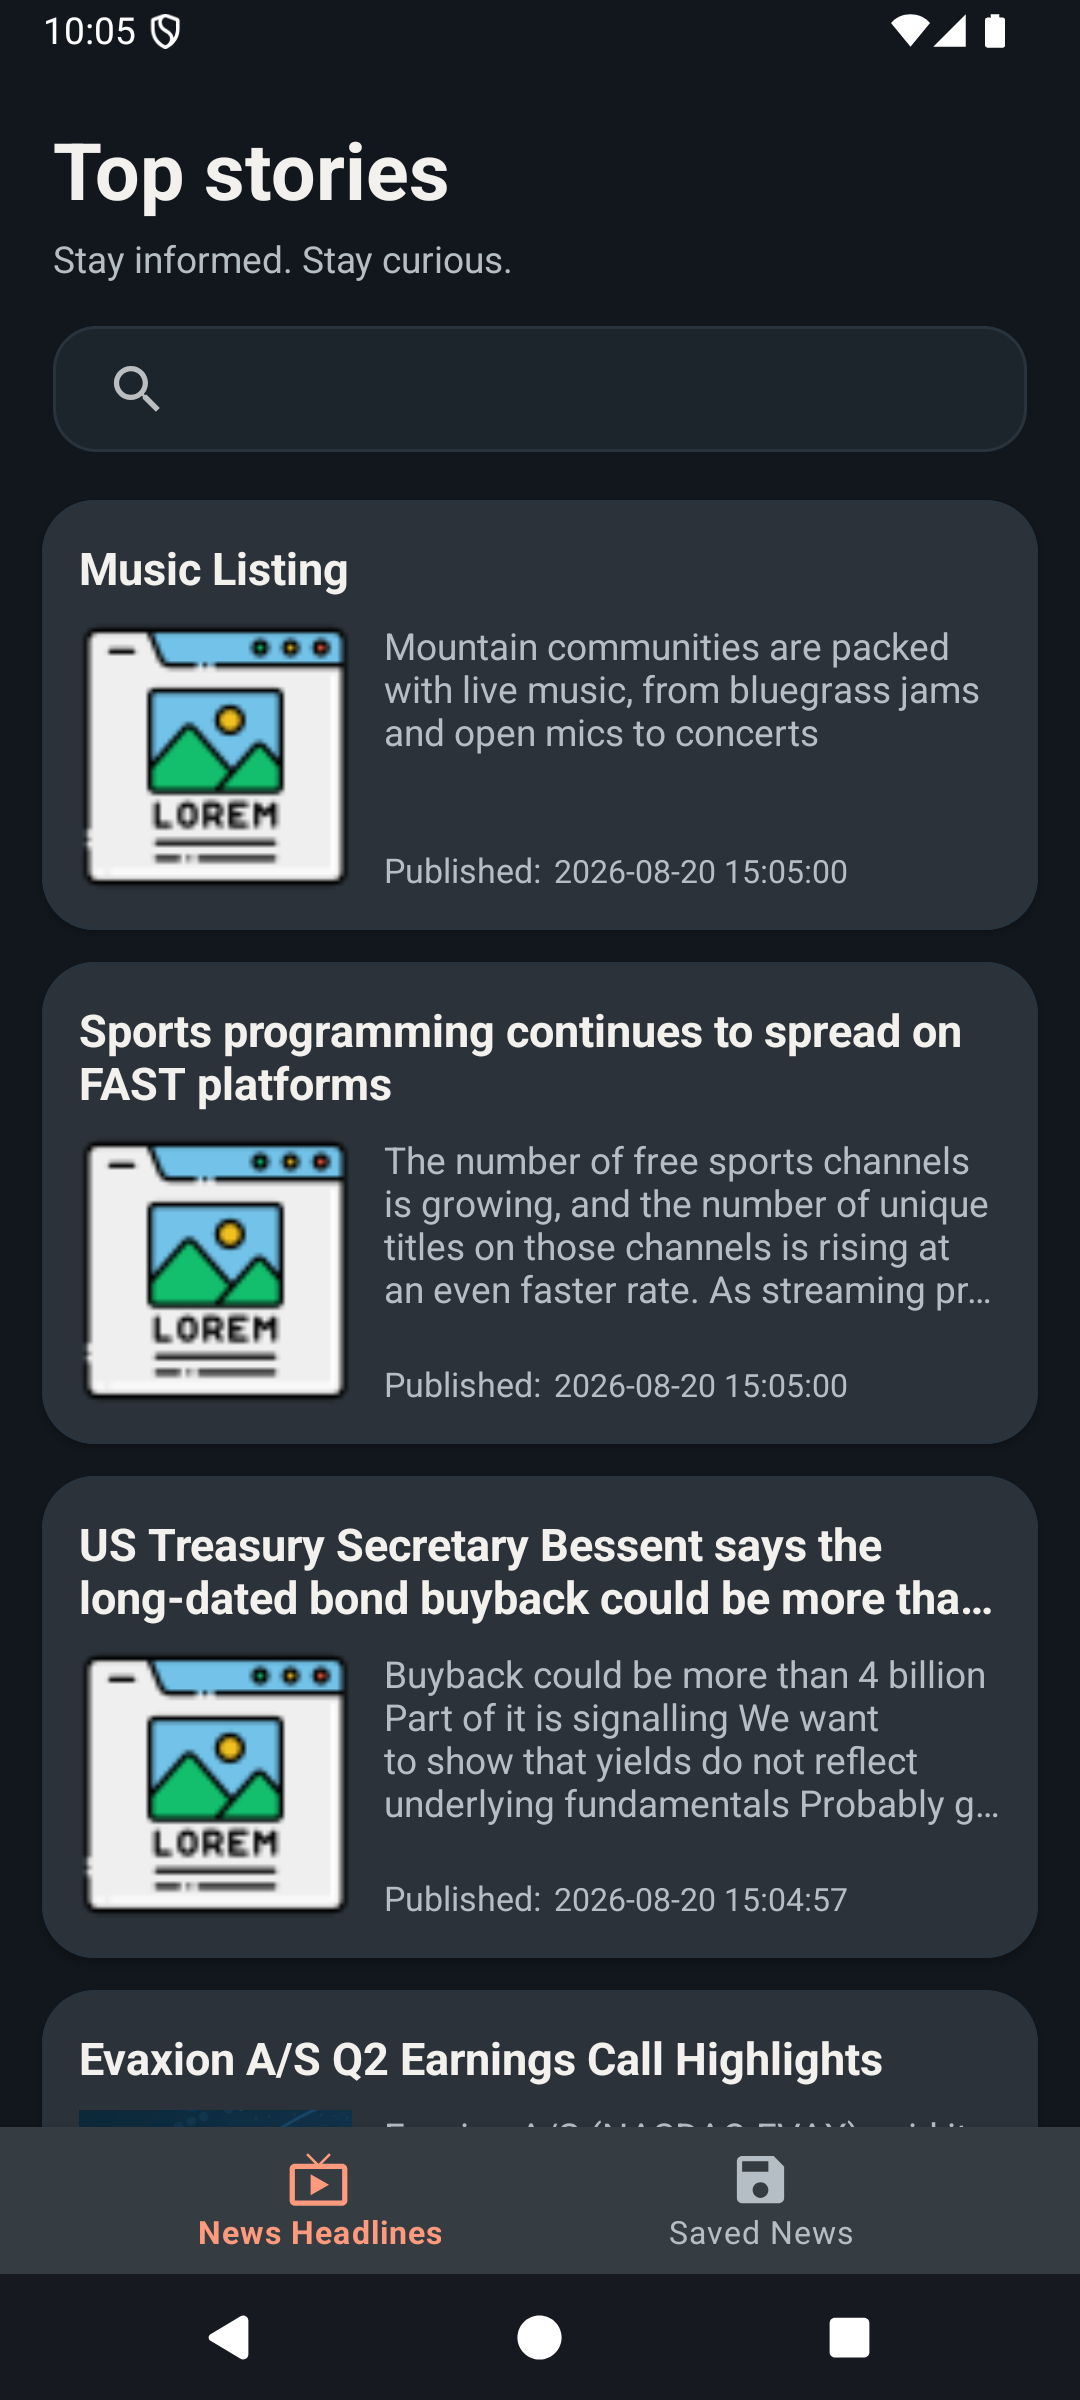
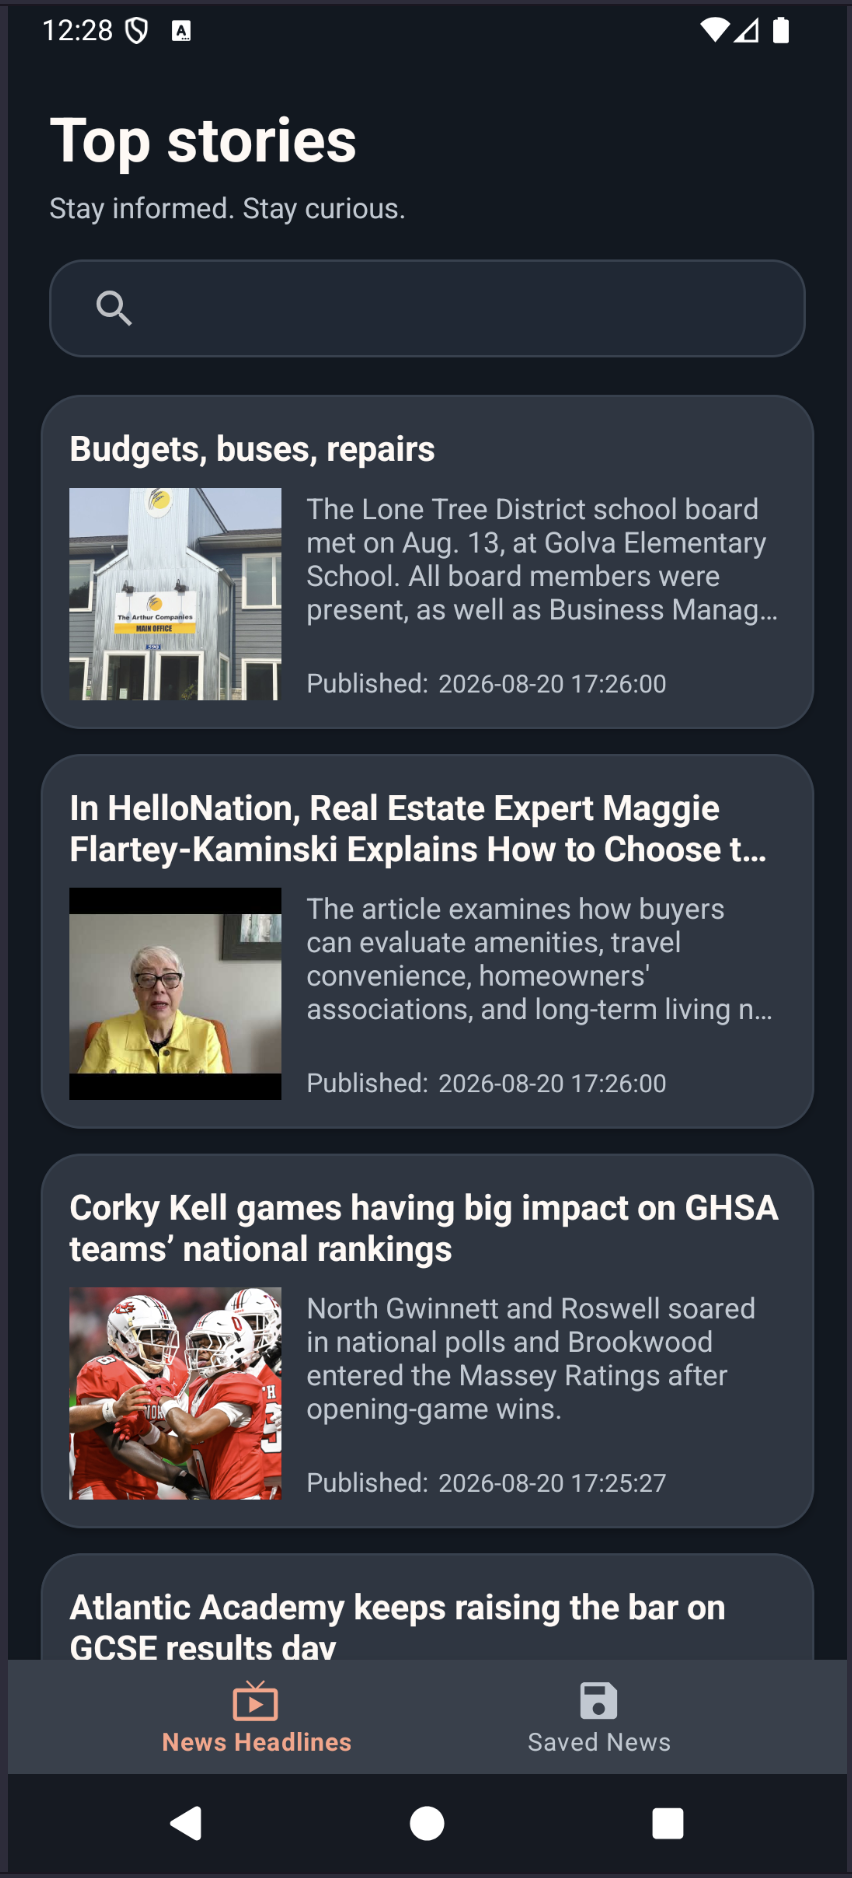
Rework and redesign all in one pass

diff --git a/app/src/main/java/com/example/newsfeed/presentation/view/fragments/details/DetailsFragment.kt b/app/src/main/java/com/example/newsfeed/presentation/view/fragments/details/DetailsFragment.kt
@@ -8,6 +8,7 @@ import android.view.ViewGroup
 import android.webkit.WebViewClient
 import androidx.fragment.app.Fragment
 import androidx.navigation.fragment.navArgs
+import androidx.navigation.fragment.findNavController
 import com.example.newsfeed.R
 import com.example.newsfeed.databinding.FragmentDetailsBinding
 import com.example.newsfeed.presentation.model.toResults
@@ -52,6 +53,10 @@ class DetailsFragment : Fragment() {
          */
         viewModel = (requireActivity() as MainActivity).viewModel
         binding.apply {
+            articleToolbar.title = getString(R.string.article_toolbar_title)
+            articleToolbar.setNavigationOnClickListener {
+                findNavController().navigateUp()
+            }
             floatingActionButton.setOnClickListener {
                 viewModel.saveArticle(article.toResults())
                 Snackbar.make(

diff --git a/app/src/main/java/com/example/newsfeed/presentation/view/fragments/news/NewsAdapter.kt b/app/src/main/java/com/example/newsfeed/presentation/view/fragments/news/NewsAdapter.kt
@@ -74,7 +74,7 @@ class NewsAdapter: RecyclerView.Adapter<NewsAdapter.NewsViewHolder>() {
                  */
                 Glide.with(ivArticleImage.context)
                     .load(results.image_url)
-                    .transition(DrawableTransitionOptions().crossFade(1000))
+                    .transition(DrawableTransitionOptions().crossFade(150))
                     .centerCrop()
                     .placeholder(R.drawable.icons8_placeholder_64)
                     .fallback(R.drawable.icons8_placeholder_64)

diff --git a/app/src/main/java/com/example/newsfeed/presentation/view/fragments/saved/SavedNewsFragment.kt b/app/src/main/java/com/example/newsfeed/presentation/view/fragments/saved/SavedNewsFragment.kt
@@ -66,6 +66,8 @@ class SavedNewsFragment : Fragment() {
     private fun observeLiveData() {
         viewModel.savedNews.observe(viewLifecycleOwner) {
             savedAdapter.differ.submitList(it)
+            binding.emptySavedState.visibility = if (it.isEmpty()) View.VISIBLE else View.GONE
+            binding.rvSavedNews.visibility = if (it.isEmpty()) View.GONE else View.VISIBLE
         }
     }
 

diff --git a/README.md b/README.md
@@ -20,9 +20,9 @@ The project uses a single-activity architecture with MVVM, use cases, repository
 
 The current UI uses an editorial layout with a warm accent color, elevated article cards, edge-to-edge spacing, and a focused saved-news experience.
 
-| Headlines | Saved news |
-| --- | --- |
-| ![NewsFeed headlines screen](docs/screenshots/newsfeed-home.png) | ![NewsFeed saved news screen](docs/screenshots/newsfeed-saved.png) |
+| Headlines | Saved news | Article reader |
+| --- | --- | --- |
+| ![NewsFeed headlines screen](docs/screenshots/newsfeed-home.png) | ![NewsFeed saved news screen](docs/screenshots/newsfeed-saved.png) | ![NewsFeed article reader screen](docs/screenshots/newsfeed-webview.png) |
 
 The app also includes in-app article reading, search, swipe-to-delete saved articles, and undo support.
 
